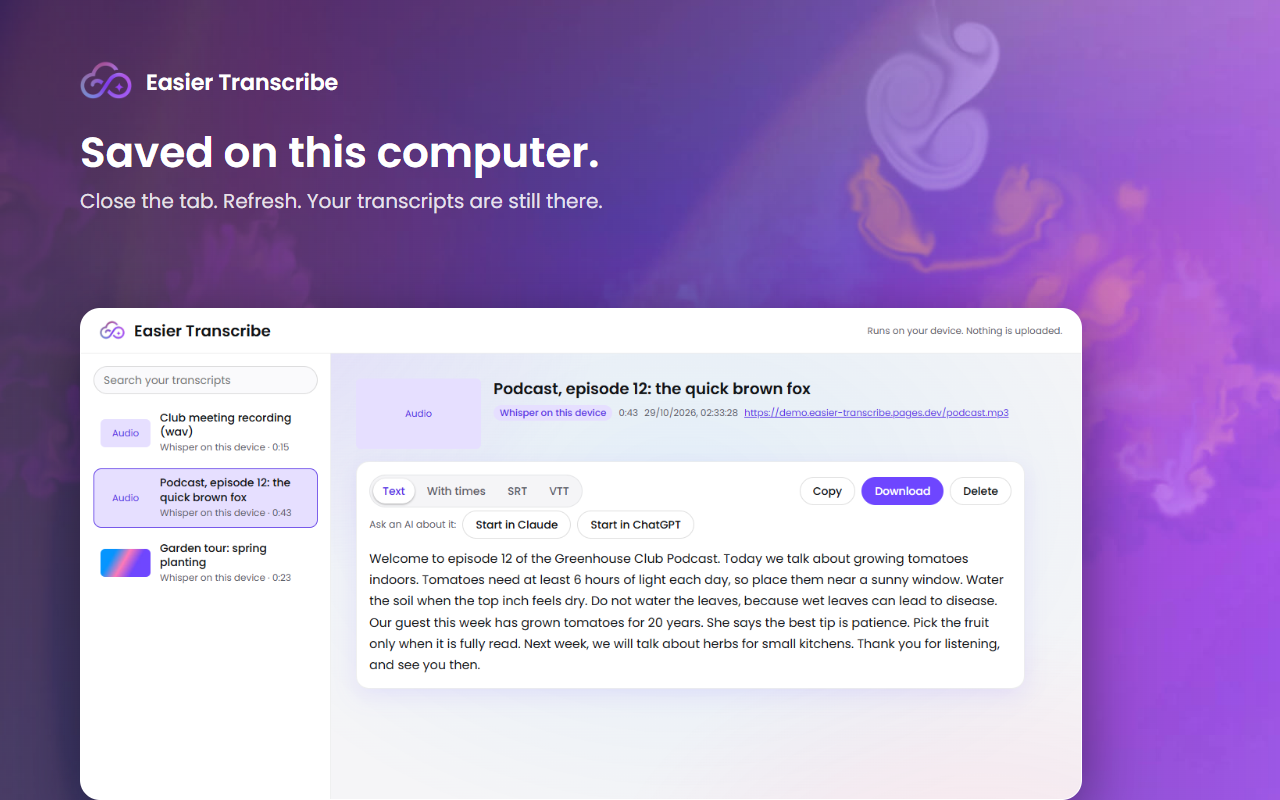
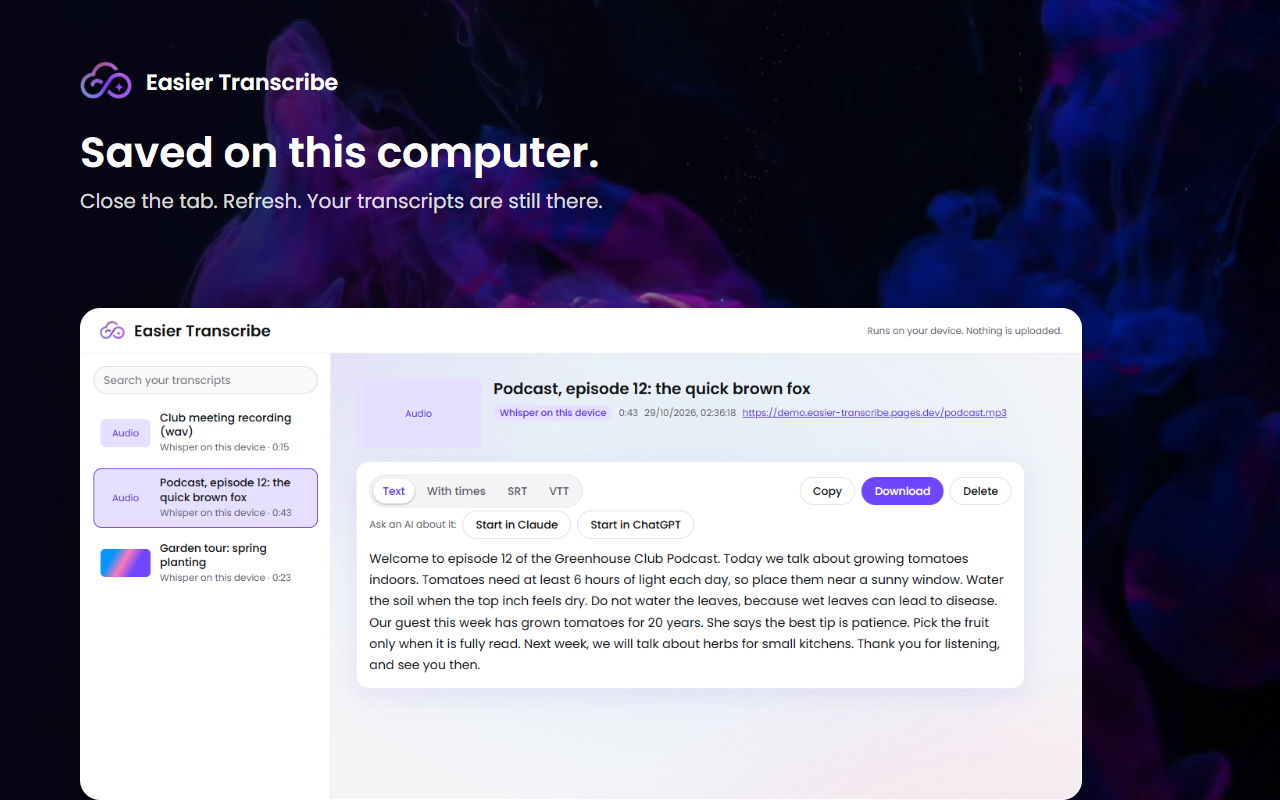
Store pictures on the approved ink frame, softer claims, listing filled in with picture order and evidence

diff --git a/extension/store/listing.md b/extension/store/listing.md
@@ -1,6 +1,6 @@
 # Chrome Web Store listing: Easier Transcribe
 
-Draft. Not submitted.
+Ready to paste. Not submitted.
 
 ## Name
 
@@ -8,7 +8,7 @@ Easier Transcribe
 
 ## Short description (132 characters max)
 
-Free transcripts for any video or audio on the page. YouTube captions in 1 second. Whisper on your device. Nothing uploaded.
+Free transcripts for any video or audio on the page. YouTube captions in 2 seconds. Whisper on your device. Nothing uploaded.
 
 ## Category
 
@@ -22,7 +22,7 @@ English
 
 Press the button on any page with a video or audio. See which is which. Pick one. Get the transcript.
 
-It is free. No account. No limits. No paid plan. Nothing is uploaded.
+It is free. No account. No paid plan. Nothing is uploaded.
 
 HOW IT WORKS
 1. Open a page with a video or audio.
@@ -30,7 +30,7 @@ HOW IT WORKS
 3. Pick the one you want from the list. Each has its title and thumbnail.
 4. The transcript opens in its own tab.
 
-YOUTUBE: 1 SECOND
+YOUTUBE: 1 TO 2 SECONDS
 YouTube captions are read from the page you are already on, in your own signed-in browser. No bot check. No server in between.
 
 EVERYTHING ELSE: WHISPER ON YOUR DEVICE
@@ -84,9 +84,32 @@ Paste each line into the matching field in the developer dashboard.
 - Sold to third parties: No.
 - Used for purposes unrelated to the single purpose: No.
 - Used for creditworthiness or lending: No.
-- Privacy policy: https://easier-transcribe.pages.dev/privacy/ (the page is built on branch feat/privacy-page and goes live with the next production deploy, which needs Anthony's typed line).
+- Privacy policy: https://easier-transcribe.pages.dev/privacy/. It is live.
+
+## Pictures, in upload order
+
+Folder: `upload-ready/` next to this file. All 1280x800 unless noted.
+
+1. `1-pick-a-video.png` (screenshot 1)
+2. `2-transcript.png` (screenshot 2)
+3. `3-export-srt.png` (screenshot 3)
+4. `4-working.png` (screenshot 4)
+5. `5-saved-history.png` (screenshot 5)
+- Small promo tile, 440x280: `promo-tile-440x280.png`
+- Marquee promo tile, 1400x560: `marquee-1400x560.png`
+- Store icon 128x128: `icon128.png` (inside the zip too)
+
+## Package
+
+`easier-transcribe-extension-0.1.0.zip` (about 17 MB, manifest at the root).
+
+## What the claims rest on
+
+- "YouTube captions in 1 to 2 seconds": real YouTube video, real build, headless Chrome, text on screen in 1 to 2 seconds (`real-youtube-*.png`).
+- "Nothing is uploaded": no server of ours is called; Whisper runs in the browser.
+- Longest file tested: a 99 second, 560 MB video, first run on a phone-width page with the model download throttled to 12 Mbps. It finished in 106 to 118 seconds, model download included. Nothing longer has been run, so there is no claim of "no limit" and no claim of "ready in seconds" for Whisper jobs. The listing says very long recordings need a lot of memory.
 
 ## Notes for the team
 
-- Screenshots (1280x800) and the 440x280 small promo tile are in this folder. The marquee tile (1400x560) is optional and not made.
+- The pictures use the Easier cloud logomark and a recoloured frame of LPM Liquid Background 1.mp4 as the ink-in-water background (Easier Done confirmed the file).
 - The screenshots use a public demo page, https://demo.easier-transcribe.pages.dev/ (a preview deploy, not production). No localhost shows.

diff --git a/extension/store/submission.md b/extension/store/submission.md
@@ -5,7 +5,7 @@ Nothing has been paid, submitted or opened in the store.
 ## Ready
 - Package: `extension/dist` zipped by `npm run build:extension` (zip it from the folder, manifest at the root).
 - Listing words, category (Productivity), single purpose, permission reasons, data answers: `listing.md`.
-- 5 screenshots 1280x800 and the 440x280 tile: this folder. Marquee 1400x560 is optional and not made.
+- 5 screenshots 1280x800 and the 440x280 tile: this folder. Marquee 1400x560 is made.
 - Privacy policy text: `privacy.md`. The public page is built (branch feat/privacy-page, preview https://privacy-preview.easier-transcribe.pages.dev/privacy/).
 - Real-click evidence: `real-youtube-*.png` (headless Chrome, real build, popup opened as the toolbar does).
 
